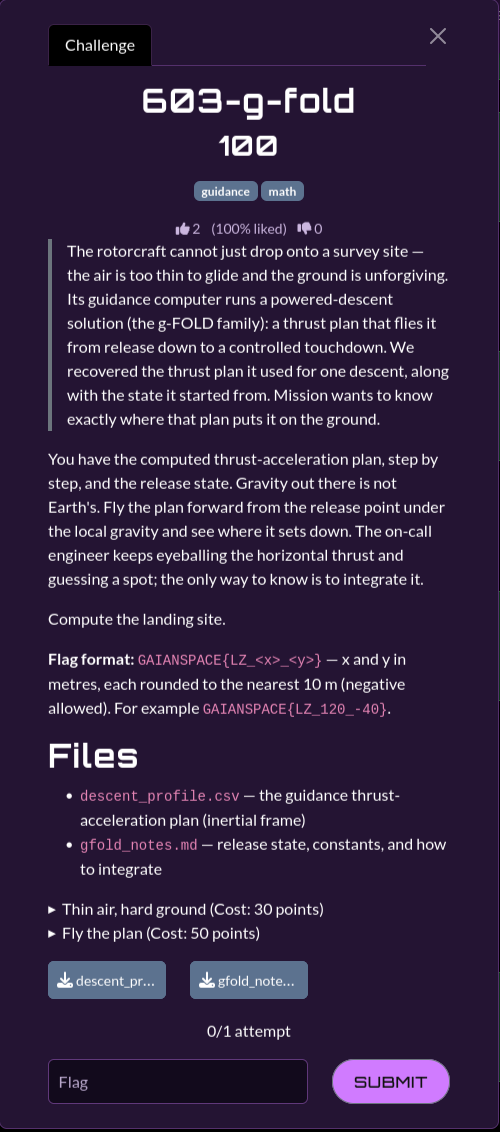
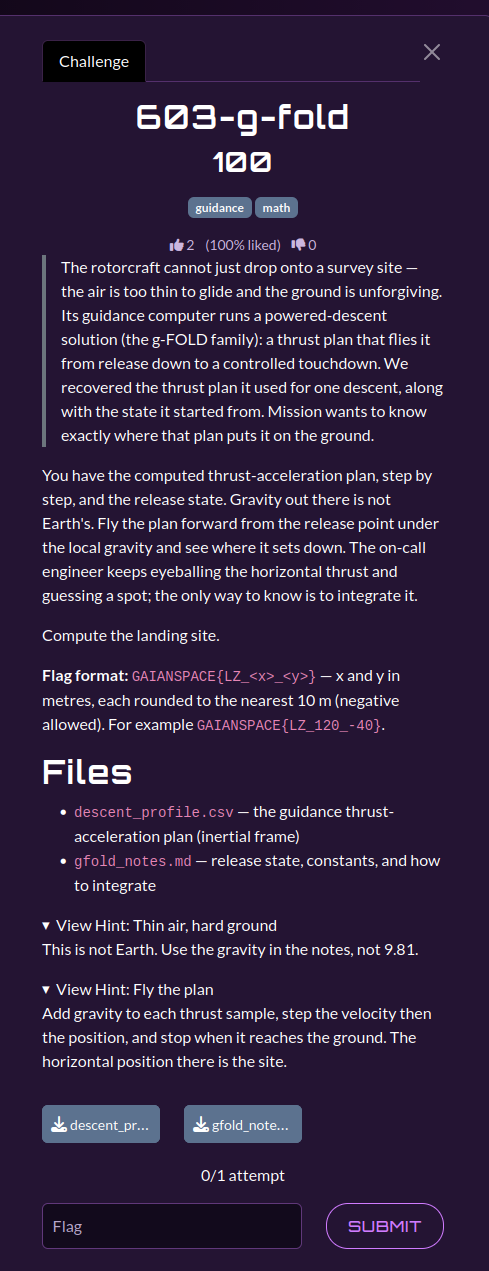
Update README.md

diff --git a/06-dr-one/605-black-box/README.md b/06-dr-one/605-black-box/README.md
@@ -23,6 +23,13 @@ The mission team wants two things from the twin's card: which swashplate servo q
 - `drone_config.md` — DR-ONE's configuration page, as sent with the card
 - `hall_notes.md` — the operators' test-hall note for the rerun
 
+## Hints
+
+Two hints were released during the event:
+
+1. **Hint 1** — Last sync. A black box doesn't tell the card about everything it writes the moment it writes it. The card holds more than the file admits, and some of what follows isn't from this flight.
+2. **Hint 2** — Pinned. Gravity can't be mounted the wrong way round, and neither can a flight you watched. Find the nose and the way down in the data before you trust a page, or a gyro, that says otherwise.
+
 ## Solution
 
 ### 1. Recover the black-box log beyond the FAT16 directory size

diff --git a/06-dr-one/602-help-me-fly/README.md b/06-dr-one/602-help-me-fly/README.md
@@ -19,6 +19,13 @@ Read what the aircraft was saying as it flew.
 
 - `mars_control.pcap` — one flight's control conversation
 
+## Hints
+
+Two hints were released during the event:
+
+1. **The aircraft's side** — Separate the aircraft's replies from the ground's pokes. Every answer to a poke starts with the same two-byte tag. Anything the aircraft sends on its own carries a different tag.
+2. **One field, in order** — A parked unit always answers with zeros. In flight, one byte of each reply changes. Collect that byte across the replies, in sequence. The radio link is not polite: replies arrive late, out of order, and sometimes twice. The last two bytes are the aircraft's own counter, low byte first.
+
 ## Solution
 
 ### Steps

diff --git a/06-dr-one/601-what-is-this-planet/README.md b/06-dr-one/601-what-is-this-planet/README.md
@@ -20,6 +20,13 @@ Identify the platform from its own downlink.
 - `mars_downlink.pcap` — the ground relay tap (control link + camera setup)
 - `perception_stack.drawio` — recovered design sketch of the onboard vision pipeline
 
+## Hints
+
+Two hints were released during the event:
+
+1. **It introduces itself** — The camera feed is set up with a short description exchange before any video flows. Follow that conversation; the stream states what it is.
+2. **Read the session** — The description of the feed carries a session name. That name is the answer, wrapper and all.
+
 ## Solution
 
 ### Steps

diff --git a/06-dr-one/603-g-fold/README.md b/06-dr-one/603-g-fold/README.md
@@ -20,6 +20,13 @@ Compute the landing site.
 - `descent_profile.csv` — the guidance thrust-acceleration plan (inertial frame)
 - `gfold_notes.md` — release state, constants, and how to integrate
 
+## Hints
+
+Two hints were released during the event:
+
+1. **Thin air, hard ground** — This is not Earth. Use the gravity in the notes, not 9.81.
+2. **Fly the plan** — Add gravity to each thrust sample, step the velocity then the position, and stop when it reaches the ground. The horizontal position there is the site.
+
 ## Solution
 
 ### Steps

diff --git a/06-dr-one/604-ice-vault/README.md b/06-dr-one/604-ice-vault/README.md
@@ -20,6 +20,12 @@ Open the vault and read the find.
 - `mission_vault.7z` — the sealed survey vault
 - `vault_notes.md` — what the field team said about the lock
 
+## Hints
+
+One hint was released during the event:
+
+1. **Passphrase** — The archive passphrase is `qvfzk`. Open `mission_vault.7z` with it and read the site.
+
 ## Solution
 
 ### Steps
